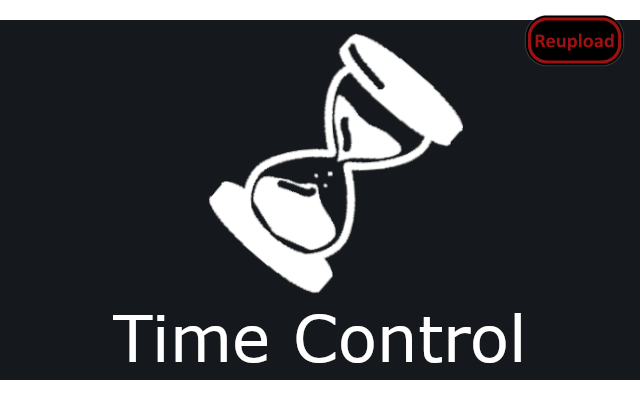
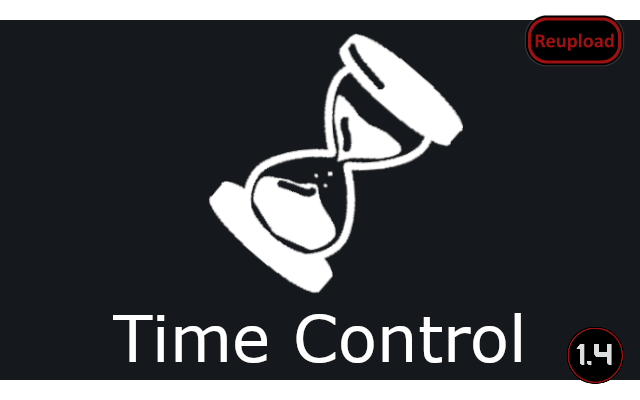
Slaughtering should now work better.

Changed region(s): [[0.875, 0.81, 1.0, 0.96]]

diff --git a/Source/Time Control/TimeControlBase.cs b/Source/Time Control/TimeControlBase.cs
@@ -21,6 +21,7 @@ public static class TimeControlBase
         {
             "JobDriver_TendPatient",
             "JobDriver_Stabilize",
+            "JobDriver_Slaughter",
             "JobDriver_Lovin",
             "TMJobDriver_CastAbilityVerb", // A RimWorld of Magic
             "TMJobDriver_CastAbilitySelf", // A RimWorld of Magic

diff --git a/README.md b/README.md
@@ -106,4 +106,4 @@ Known conflicts:
 -  If you have the solution for a problem, please post it to the GitHub repository.
 
 
-https://steamcommunity.com/sharedfiles/filedetails/changelog/2887355135]Last updated 2023-04-29
+https://steamcommunity.com/sharedfiles/filedetails/changelog/2887355135]Last updated 2023-07-09
